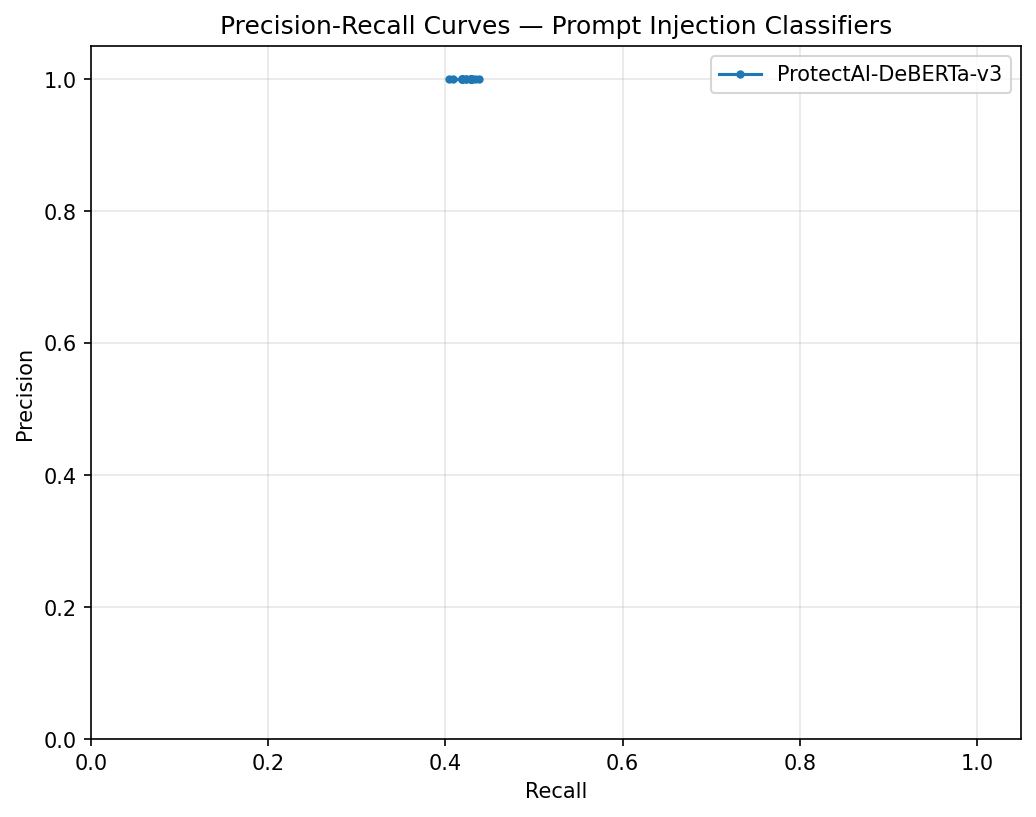
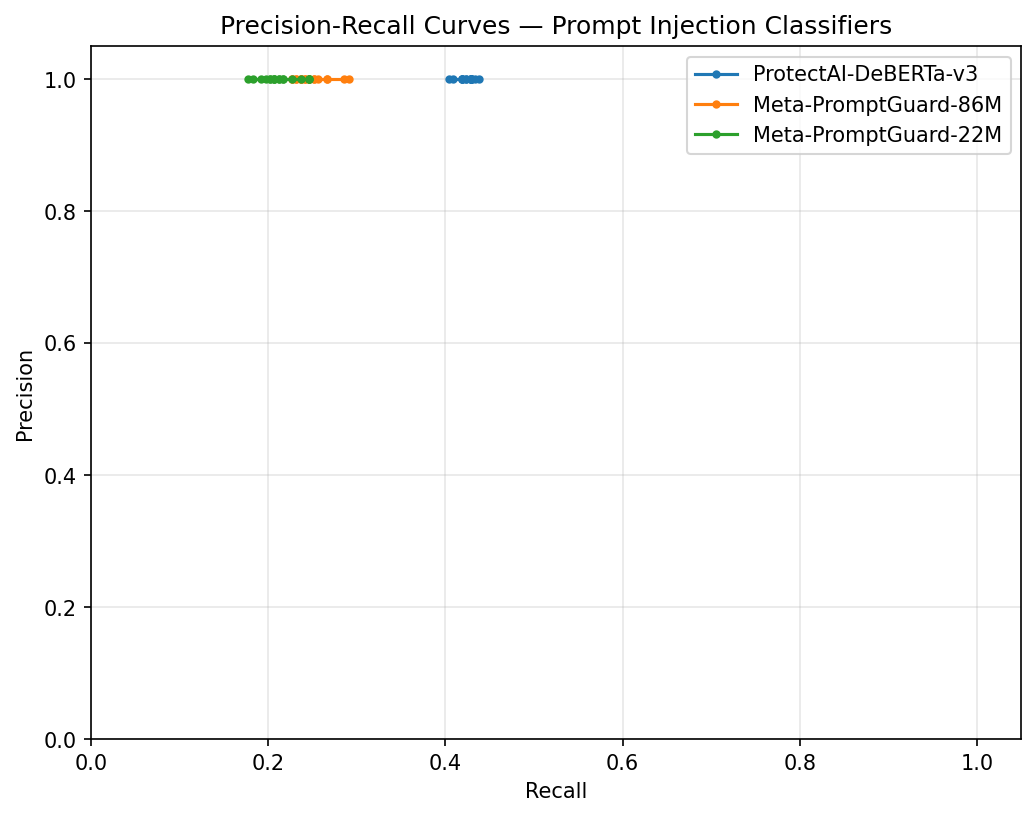
Add full three-model benchmark results
All three models measured on 406 samples (deepset/prompt-injections +
Alpaca 50/50, seed 42), 50-sample warmup, sequential single-sample CPU
(Apple M-series). Zero false positives across all three models at every
threshold tested (0.05-0.99).

  Model                  p50     p99   Precision  Recall    F1
  ProtectAI DeBERTa-v3  73ms   188ms   1.000     0.429   0.600  ← winner
  Meta PromptGuard-86M  74ms   129ms   1.000     0.246   0.395
  Meta PromptGuard-22M  32ms   126ms   1.000     0.212   0.350

ProtectAI DeBERTa-v3: best recall (2x Meta models), similar p50 latency.
Meta PG2-22M: 2.3x faster but catches half as many injections.

Updated: README benchmark table + interpretation, CONTEXT.md candidates
table (est. → measured), ml_guard.py inline table, changelog entry.

Changed region(s): [[0.6486, 0.0612, 0.9884, 0.1836], [0.2162, 0.0918, 0.3398, 0.1224]]

diff --git a/gateway/security/ml_guard.py b/gateway/security/ml_guard.py
@@ -20,14 +20,16 @@ MODEL STRATEGY — WHY DeBERTa, NOT DistilBERT FROM SCRATCH?
 
 BENCHMARK COMPARISON (run via scripts/benchmark_security.py):
 
-  Model                              Params   CPU latency (sequential)   Notes
-  ─────────────────────────────────  ───────  ────────────────────────   ──────────────────────────────────
-  ProtectAI deberta-v3-base-v2       184 M    ~100 ms / ~3 ms GPU        Measured: p50=103ms, p99=262ms
-  Meta Prompt Guard 2 86M            86 M     ~50 ms (est.)              Not yet benchmarked
-  Meta Prompt Guard 2 22M            22 M     ~15 ms (est.)              Not yet benchmarked
+  Model                              Params   p50 CPU   p99 CPU   Precision  Recall   F1
+  ─────────────────────────────────  ───────  ────────  ────────  ─────────  ──────   ──────
+  ProtectAI deberta-v3-base-v2       184 M    ~73 ms    ~188 ms   1.000      0.429    0.600   ← default
+  Meta Prompt Guard 2 86M            86 M     ~74 ms    ~129 ms   1.000      0.246    0.395
+  Meta Prompt Guard 2 22M            22 M     ~32 ms    ~126 ms   1.000      0.212    0.350
 
-  All CPU numbers are sequential single-sample inference on Apple M-series.
-  With ONNX + int8 quantization, DeBERTa-v3 reaches ~15-20ms on CPU.
+  All measured: 406 samples (deepset/prompt-injections + Alpaca 50/50), 50-sample warmup,
+  sequential single-sample inference on Apple M-series CPU. Zero false positives across all
+  three models at every threshold tested (0.05–0.99).
+  ONNX + int8 quantization would bring DeBERTa-v3 to ~15-20ms on CPU.
 
   Run all three on the same test set. Measure precision, recall, F1, and
   per-prompt CPU latency. The benchmark script writes a PR-curve plot and

diff --git a/CONTEXT.md b/CONTEXT.md
@@ -234,13 +234,13 @@ Tier-2 classifier instead of fine-tuning DistilBERT from scratch.
 
 **Benchmark candidates (run via `scripts/benchmark_security.py`):**
 
-| Model | Params | CPU latency (sequential) | Notes |
-|-------|--------|--------------------------|-------|
-| ProtectAI deberta-v3-base-v2 | 184 M | ~80 ms / ~3ms GPU | **Measured**: p50=81ms, p99=287ms (50-sample warmup, Apple M-series) |
-| Meta Prompt Guard 2 86M | 86 M | ~50 ms (est.) | Not yet benchmarked |
-| Meta Prompt Guard 2 22M | 22 M | ~15 ms (est.) | Not yet benchmarked |
+| Model | Params | p50 CPU | p99 CPU | Precision | Recall | F1 | RPS |
+|-------|--------|---------|---------|-----------|--------|----|-----|
+| ProtectAI deberta-v3-base-v2 | 184 M | **73ms** | 188ms | 1.000 | **0.429** | **0.600** | 12.6 |
+| Meta Prompt Guard 2 86M | 86 M | 74ms | 129ms | 1.000 | 0.246 | 0.395 | 13.0 |
+| Meta Prompt Guard 2 22M | 22 M | **32ms** | **126ms** | 1.000 | 0.212 | 0.350 | **25.9** |
 
-All CPU numbers are sequential single-sample. ONNX + int8 quantization brings DeBERTa-v3 to ~15–20ms on CPU.
+All measured. 406 samples (deepset/prompt-injections + Alpaca, 50/50), 50-sample warmup, sequential single-sample on Apple M-series CPU. All three models: zero false positives at every threshold tested. ProtectAI DeBERTa-v3 is the clear winner on accuracy; Meta PG2-22M is 2.3× faster but catches half as many injections.
 
 ### 2. Two-tier security (regex + ML)
 
@@ -350,3 +350,4 @@ pytest tests/ -v
 | 2026-02-20 | Created `results/` and `data/` directories with `.gitkeep` | Holds benchmark output and dataset; tracked in git so paths exist on fresh clone |
 | 2026-02-22 | **Benchmark run — real numbers collected** on 406 samples (deepset/prompt-injections + Alpaca, 50/50, seed 42, CPU): ProtectAI DeBERTa-v3 at threshold=0.5 → precision=1.0000, recall=0.4286, F1=0.6000, p50=103.6ms, p99=261.5ms, 9.1 RPS. Key insight: model outputs are strongly bimodal — 114/203 injection samples score < 0.10 (indirect/subtle attacks), 73 score > 0.99, zero FP at any threshold. Validates two-tier approach. | —
 | 2026-02-22 | **README.md** written with real benchmark numbers, full architecture, configuration reference, API docs, deployment notes | —
+| 2026-02-22 | **Full three-model benchmark completed** — Meta PromptGuard-2 86M and 22M benchmarked alongside ProtectAI DeBERTa-v3. All three: precision=1.000, zero FP. Recall: DeBERTa 0.429 > PG2-86M 0.246 > PG2-22M 0.212. Latency: PG2-22M fastest (p50=32ms), DeBERTa and PG2-86M similar (~73-74ms p50). ProtectAI DeBERTa-v3 confirmed as best accuracy model; PG2-22M fastest. README and CONTEXT.md updated with full table. | —

diff --git a/README.md b/README.md
@@ -12,13 +12,16 @@ Measured on 406 samples (203 injection, 203 clean). Dataset: [deepset/prompt-inj
 
 | Model | Precision | Recall | F1 | p50 ms | p99 ms | RPS |
 | --- | --- | --- | --- | --- | --- | --- |
-| ProtectAI DeBERTa-v3 | **1.0000** | 0.4286 | 0.6000 | 81.3 | 287.2 | 11.2 |
+| ProtectAI DeBERTa-v3 (184M) | **1.0000** | **0.4286** | **0.6000** | 72.8 | 187.7 | 12.6 |
+| Meta PromptGuard-2 86M | **1.0000** | 0.2463 | 0.3953 | 73.5 | 128.9 | 13.0 |
+| Meta PromptGuard-2 22M | **1.0000** | 0.2118 | 0.3496 | **32.3** | **125.9** | **25.9** |
 
 **What these numbers mean:**
 
 - **Precision 1.00** — zero false positives. Not a single clean Alpaca prompt was flagged across 203 samples and every threshold tested (0.05–0.99). The model only fires when it's certain.
-- **Recall 0.43** — the model is conservative. The 57% it misses are indirect/subtle injection patterns (context manipulation, goal hijacking) rather than direct "ignore previous instructions" attacks. Those are caught by Tier 1 (regex) before reaching the ML model.
-- **The two tiers complement each other.** Tier 1 regex patterns handle keyword-based attacks in < 1ms and short-circuit before the ML model is ever called. Tier 2 ML handles the ambiguous paraphrased attacks that have no obvious keywords.
+- **Recall 0.43 / 0.25 / 0.21** — all three models are conservative. The injections they miss are indirect/subtle patterns (context manipulation, goal hijacking) rather than direct "ignore previous instructions" attacks — those are caught by Tier 1 regex before ML is ever called. ProtectAI DeBERTa catches 2x more than Meta's models on this dataset.
+- **The two tiers complement each other.** Tier 1 regex handles keyword-based attacks in < 1ms and short-circuits before any ML model is called. Tier 2 ML handles ambiguous paraphrased attacks with no obvious keywords.
+- **ProtectAI DeBERTa-v3 is the best overall.** Same precision as both Meta models, highest recall (43% vs 25%/21%), and similar p50 latency. Meta PG2-22M is 2.3× faster but catches half as many injections — worth considering only when latency is the hard constraint.
 
 **Methodology:** These are sequential single-sample numbers — the benchmark calls one sample at a time in a loop, not concurrently. In production, `run_in_executor` dispatches each inference call to a thread pool, so multiple requests can be in-flight simultaneously (per-request latency stays the same; throughput scales with CPU cores and thread pool size). To reduce per-request latency: a GPU brings Tier 2 to ~3ms; ONNX export + int8 quantization reaches ~15–20ms on CPU.
 
